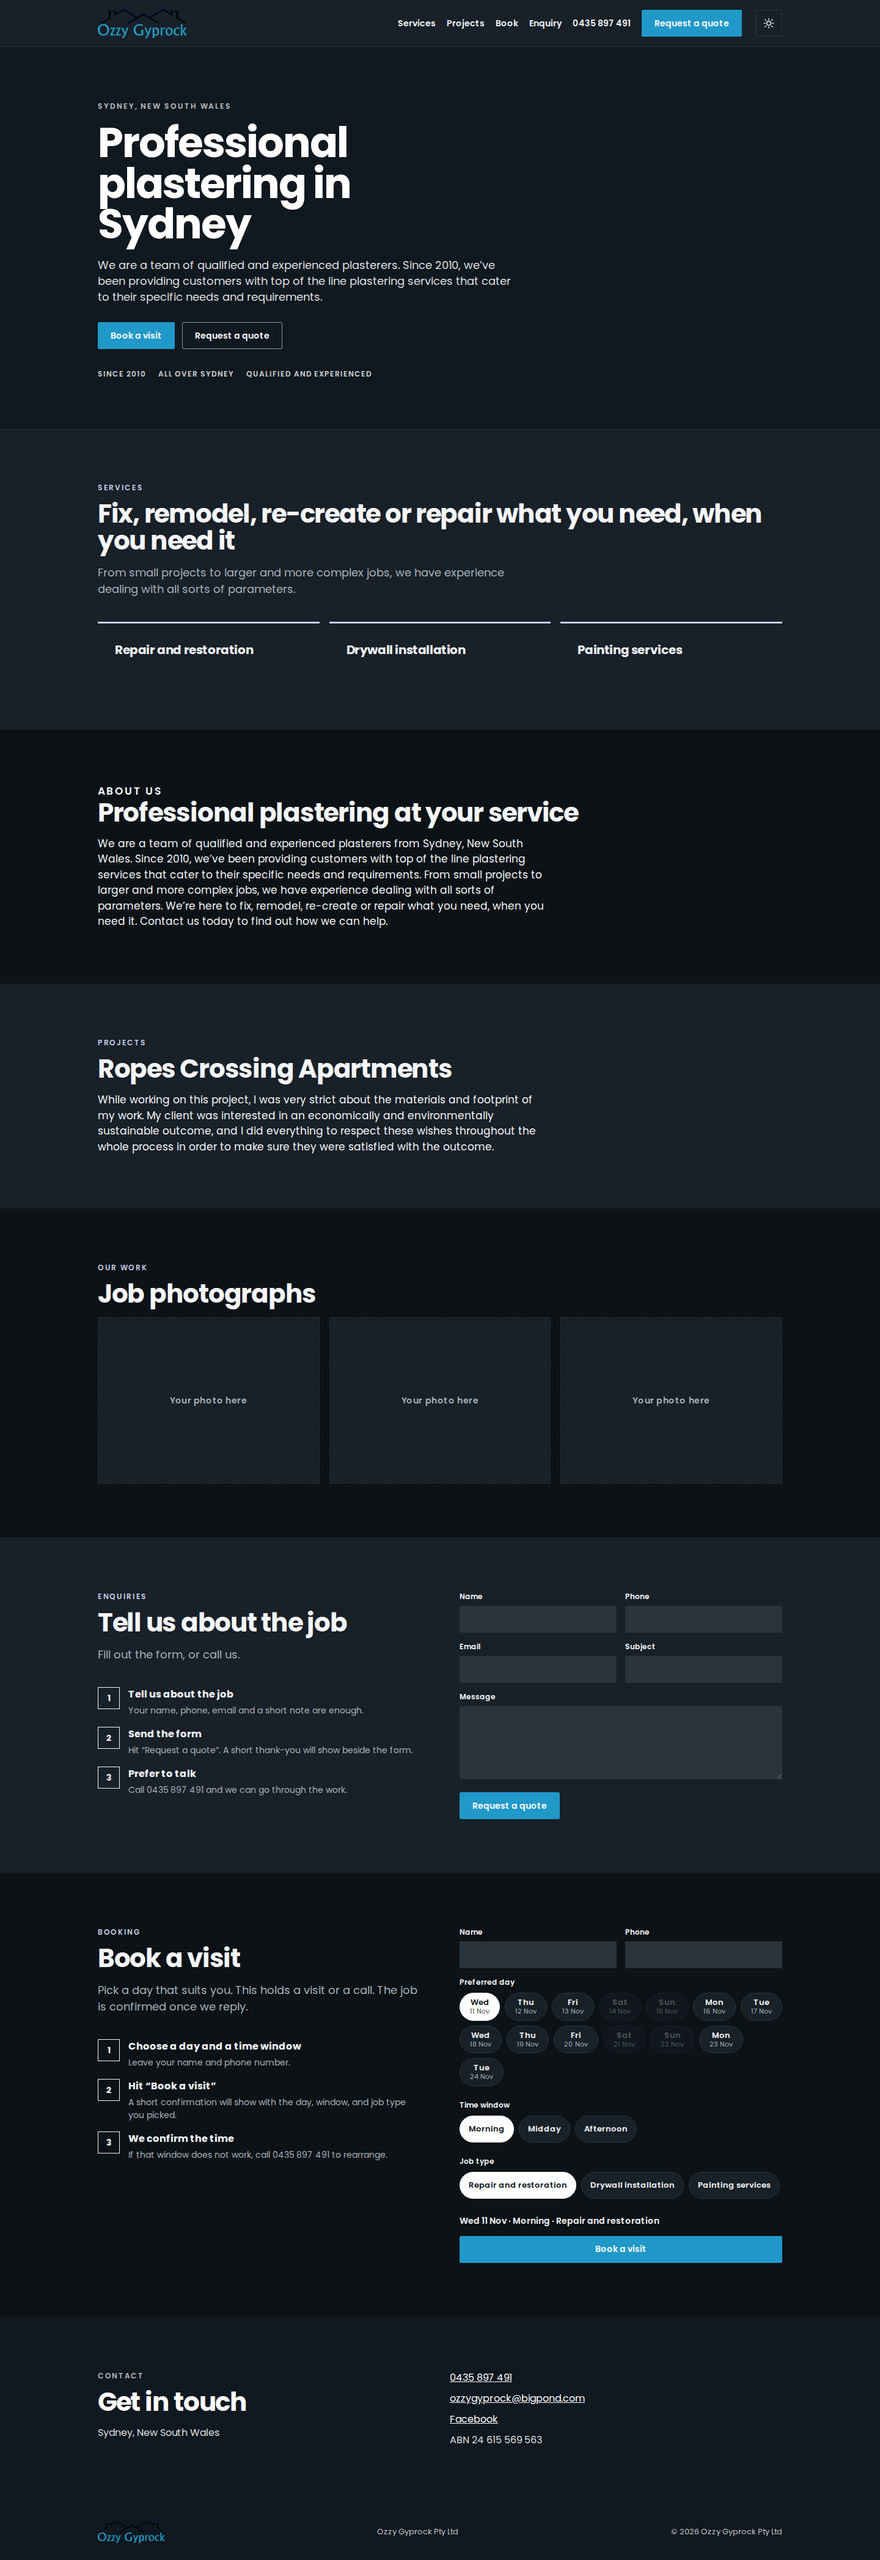
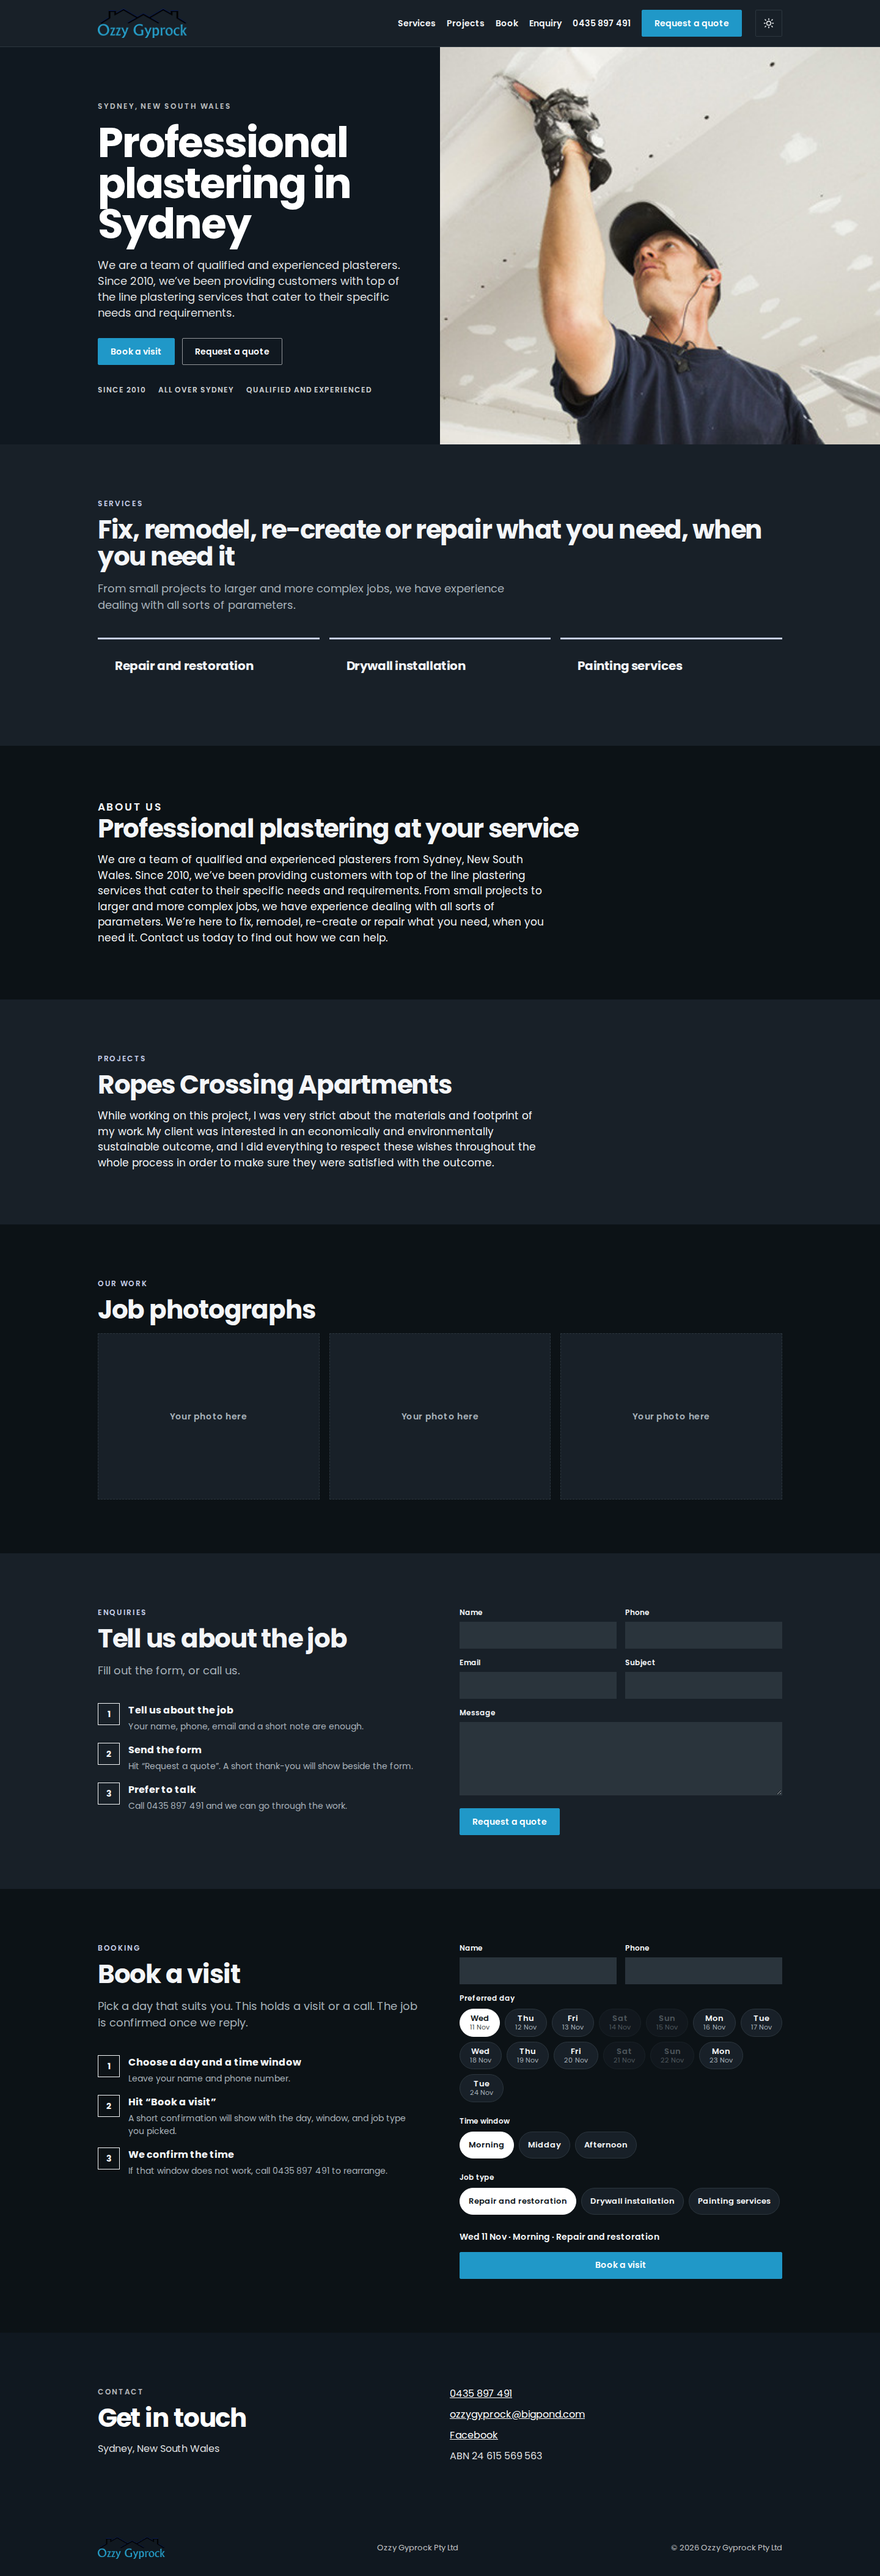
Fill the desktop hero with a ceiling plastering photo.
Two-column layout at 1440 with object-fit cover on the right; the photo stays off the 390 hero so mobile copy is unchanged.

diff --git a/wix-embed.html b/wix-embed.html
@@ -112,7 +112,22 @@ html[data-theme="dark"] .icon-moon{display:none}
 html:not([data-theme="dark"]) .icon-sun{display:none}
 
 .hero{background:var(--hero);color:var(--hero-text);padding:0}
-.hero-copy{width:min(var(--max),calc(100% - 48px));margin:0 auto;padding:88px 0 80px}
+.hero-split{
+  display:grid;
+  grid-template-columns:minmax(0,1fr) minmax(0,1fr);
+  align-items:stretch;
+}
+.hero-copy{
+  width:auto;
+  max-width:none;
+  margin:0;
+  padding:88px 40px 80px max(24px, calc((100vw - var(--max)) / 2));
+}
+.hero-photo{position:relative;min-height:100%;overflow:hidden}
+.hero-photo img{
+  position:absolute;inset:0;width:100%;height:100%;
+  object-fit:cover;object-position:center 35%;
+}
 .eyebrow{font-size:12px;letter-spacing:.16em;text-transform:uppercase;font-weight:600;color:rgba(255,255,255,.72);margin:0 0 18px}
 .hero h1{font-size:clamp(40px,5.4vw,68px);line-height:.98;font-weight:700;letter-spacing:-.03em;margin:0 0 20px;max-width:14ch}
 .hero p.lead{font-size:18px;line-height:1.45;color:rgba(255,255,255,.88);margin:0 0 28px;max-width:38em}
@@ -213,7 +228,9 @@ footer.site img{height:36px;width:auto}
 @media (max-width:900px){
   .cards,.slots,.split,.contact-grid{grid-template-columns:1fr}
   form.quote-form,form.book-form{grid-template-columns:1fr}
-  .hero-copy{padding:64px 0 56px}
+  .hero-split{display:block}
+  .hero-photo{display:none}
+  .hero-copy{width:min(var(--max),calc(100% - 48px));margin:0 auto;padding:64px 0 56px}
 }
 @media (max-width:600px){
   header.site .bar{min-height:64px;gap:10px 12px;flex-wrap:wrap;padding:8px 0}
@@ -307,19 +324,24 @@ footer.site img{height:36px;width:auto}
 
 <main id="top">
   <section class="hero" aria-label="Introduction">
-    <div class="hero-copy">
-      <p class="eyebrow">Sydney, New South Wales</p>
-      <h1>Professional plastering in Sydney</h1>
-      <p class="lead">We are a team of qualified and experienced plasterers. Since 2010, we’ve been providing customers with top of the line plastering services that cater to their specific needs and requirements.</p>
-      <div class="hero-ctas">
-        <a class="btn btn-blue" href="#book">Book a visit</a>
-        <a class="btn btn-ghost" href="#enquiry">Request a quote</a>
+    <div class="hero-split">
+      <div class="hero-copy">
+        <p class="eyebrow">Sydney, New South Wales</p>
+        <h1>Professional plastering in Sydney</h1>
+        <p class="lead">We are a team of qualified and experienced plasterers. Since 2010, we’ve been providing customers with top of the line plastering services that cater to their specific needs and requirements.</p>
+        <div class="hero-ctas">
+          <a class="btn btn-blue" href="#book">Book a visit</a>
+          <a class="btn btn-ghost" href="#enquiry">Request a quote</a>
+        </div>
+        <ul class="proof">
+          <li>Since 2010</li>
+          <li>All over Sydney</li>
+          <li>Qualified and experienced</li>
+        </ul>
       </div>
-      <ul class="proof">
-        <li>Since 2010</li>
-        <li>All over Sydney</li>
-        <li>Qualified and experienced</li>
-      </ul>
+      <div class="hero-photo">
+        <img src="https://cromservices.github.io/ozzy-gyprock-preview/assets/work-ceiling.png" alt="Plastering a ceiling" width="980" height="380">
+      </div>
     </div>
   </section>
 

diff --git a/index.html b/index.html
@@ -50,19 +50,24 @@
 
 <main id="top">
   <section class="hero" aria-label="Introduction">
-    <div class="hero-copy">
-      <p class="eyebrow">Sydney, New South Wales</p>
-      <h1>Professional plastering in Sydney</h1>
-      <p class="lead">We are a team of qualified and experienced plasterers. Since 2010, we’ve been providing customers with top of the line plastering services that cater to their specific needs and requirements.</p>
-      <div class="hero-ctas">
-        <a class="btn btn-blue" href="#book">Book a visit</a>
-        <a class="btn btn-ghost" href="#enquiry">Request a quote</a>
+    <div class="hero-split">
+      <div class="hero-copy">
+        <p class="eyebrow">Sydney, New South Wales</p>
+        <h1>Professional plastering in Sydney</h1>
+        <p class="lead">We are a team of qualified and experienced plasterers. Since 2010, we’ve been providing customers with top of the line plastering services that cater to their specific needs and requirements.</p>
+        <div class="hero-ctas">
+          <a class="btn btn-blue" href="#book">Book a visit</a>
+          <a class="btn btn-ghost" href="#enquiry">Request a quote</a>
+        </div>
+        <ul class="proof">
+          <li>Since 2010</li>
+          <li>All over Sydney</li>
+          <li>Qualified and experienced</li>
+        </ul>
       </div>
-      <ul class="proof">
-        <li>Since 2010</li>
-        <li>All over Sydney</li>
-        <li>Qualified and experienced</li>
-      </ul>
+      <div class="hero-photo">
+        <img src="assets/work-ceiling.png" alt="Plastering a ceiling" width="980" height="380">
+      </div>
     </div>
   </section>
 

diff --git a/styles.css b/styles.css
@@ -100,7 +100,22 @@ html[data-theme="dark"] .icon-moon{display:none}
 html:not([data-theme="dark"]) .icon-sun{display:none}
 
 .hero{background:var(--hero);color:var(--hero-text);padding:0}
-.hero-copy{width:min(var(--max),calc(100% - 48px));margin:0 auto;padding:88px 0 80px}
+.hero-split{
+  display:grid;
+  grid-template-columns:minmax(0,1fr) minmax(0,1fr);
+  align-items:stretch;
+}
+.hero-copy{
+  width:auto;
+  max-width:none;
+  margin:0;
+  padding:88px 40px 80px max(24px, calc((100vw - var(--max)) / 2));
+}
+.hero-photo{position:relative;min-height:100%;overflow:hidden}
+.hero-photo img{
+  position:absolute;inset:0;width:100%;height:100%;
+  object-fit:cover;object-position:center 35%;
+}
 .eyebrow{font-size:12px;letter-spacing:.16em;text-transform:uppercase;font-weight:600;color:rgba(255,255,255,.72);margin:0 0 18px}
 .hero h1{font-size:clamp(40px,5.4vw,68px);line-height:.98;font-weight:700;letter-spacing:-.03em;margin:0 0 20px;max-width:14ch}
 .hero p.lead{font-size:18px;line-height:1.45;color:rgba(255,255,255,.88);margin:0 0 28px;max-width:38em}
@@ -201,7 +216,9 @@ footer.site img{height:36px;width:auto}
 @media (max-width:900px){
   .cards,.slots,.split,.contact-grid{grid-template-columns:1fr}
   form.quote-form,form.book-form{grid-template-columns:1fr}
-  .hero-copy{padding:64px 0 56px}
+  .hero-split{display:block}
+  .hero-photo{display:none}
+  .hero-copy{width:min(var(--max),calc(100% - 48px));margin:0 auto;padding:64px 0 56px}
 }
 @media (max-width:600px){
   header.site .bar{min-height:64px;gap:10px 12px;flex-wrap:wrap;padding:8px 0}
